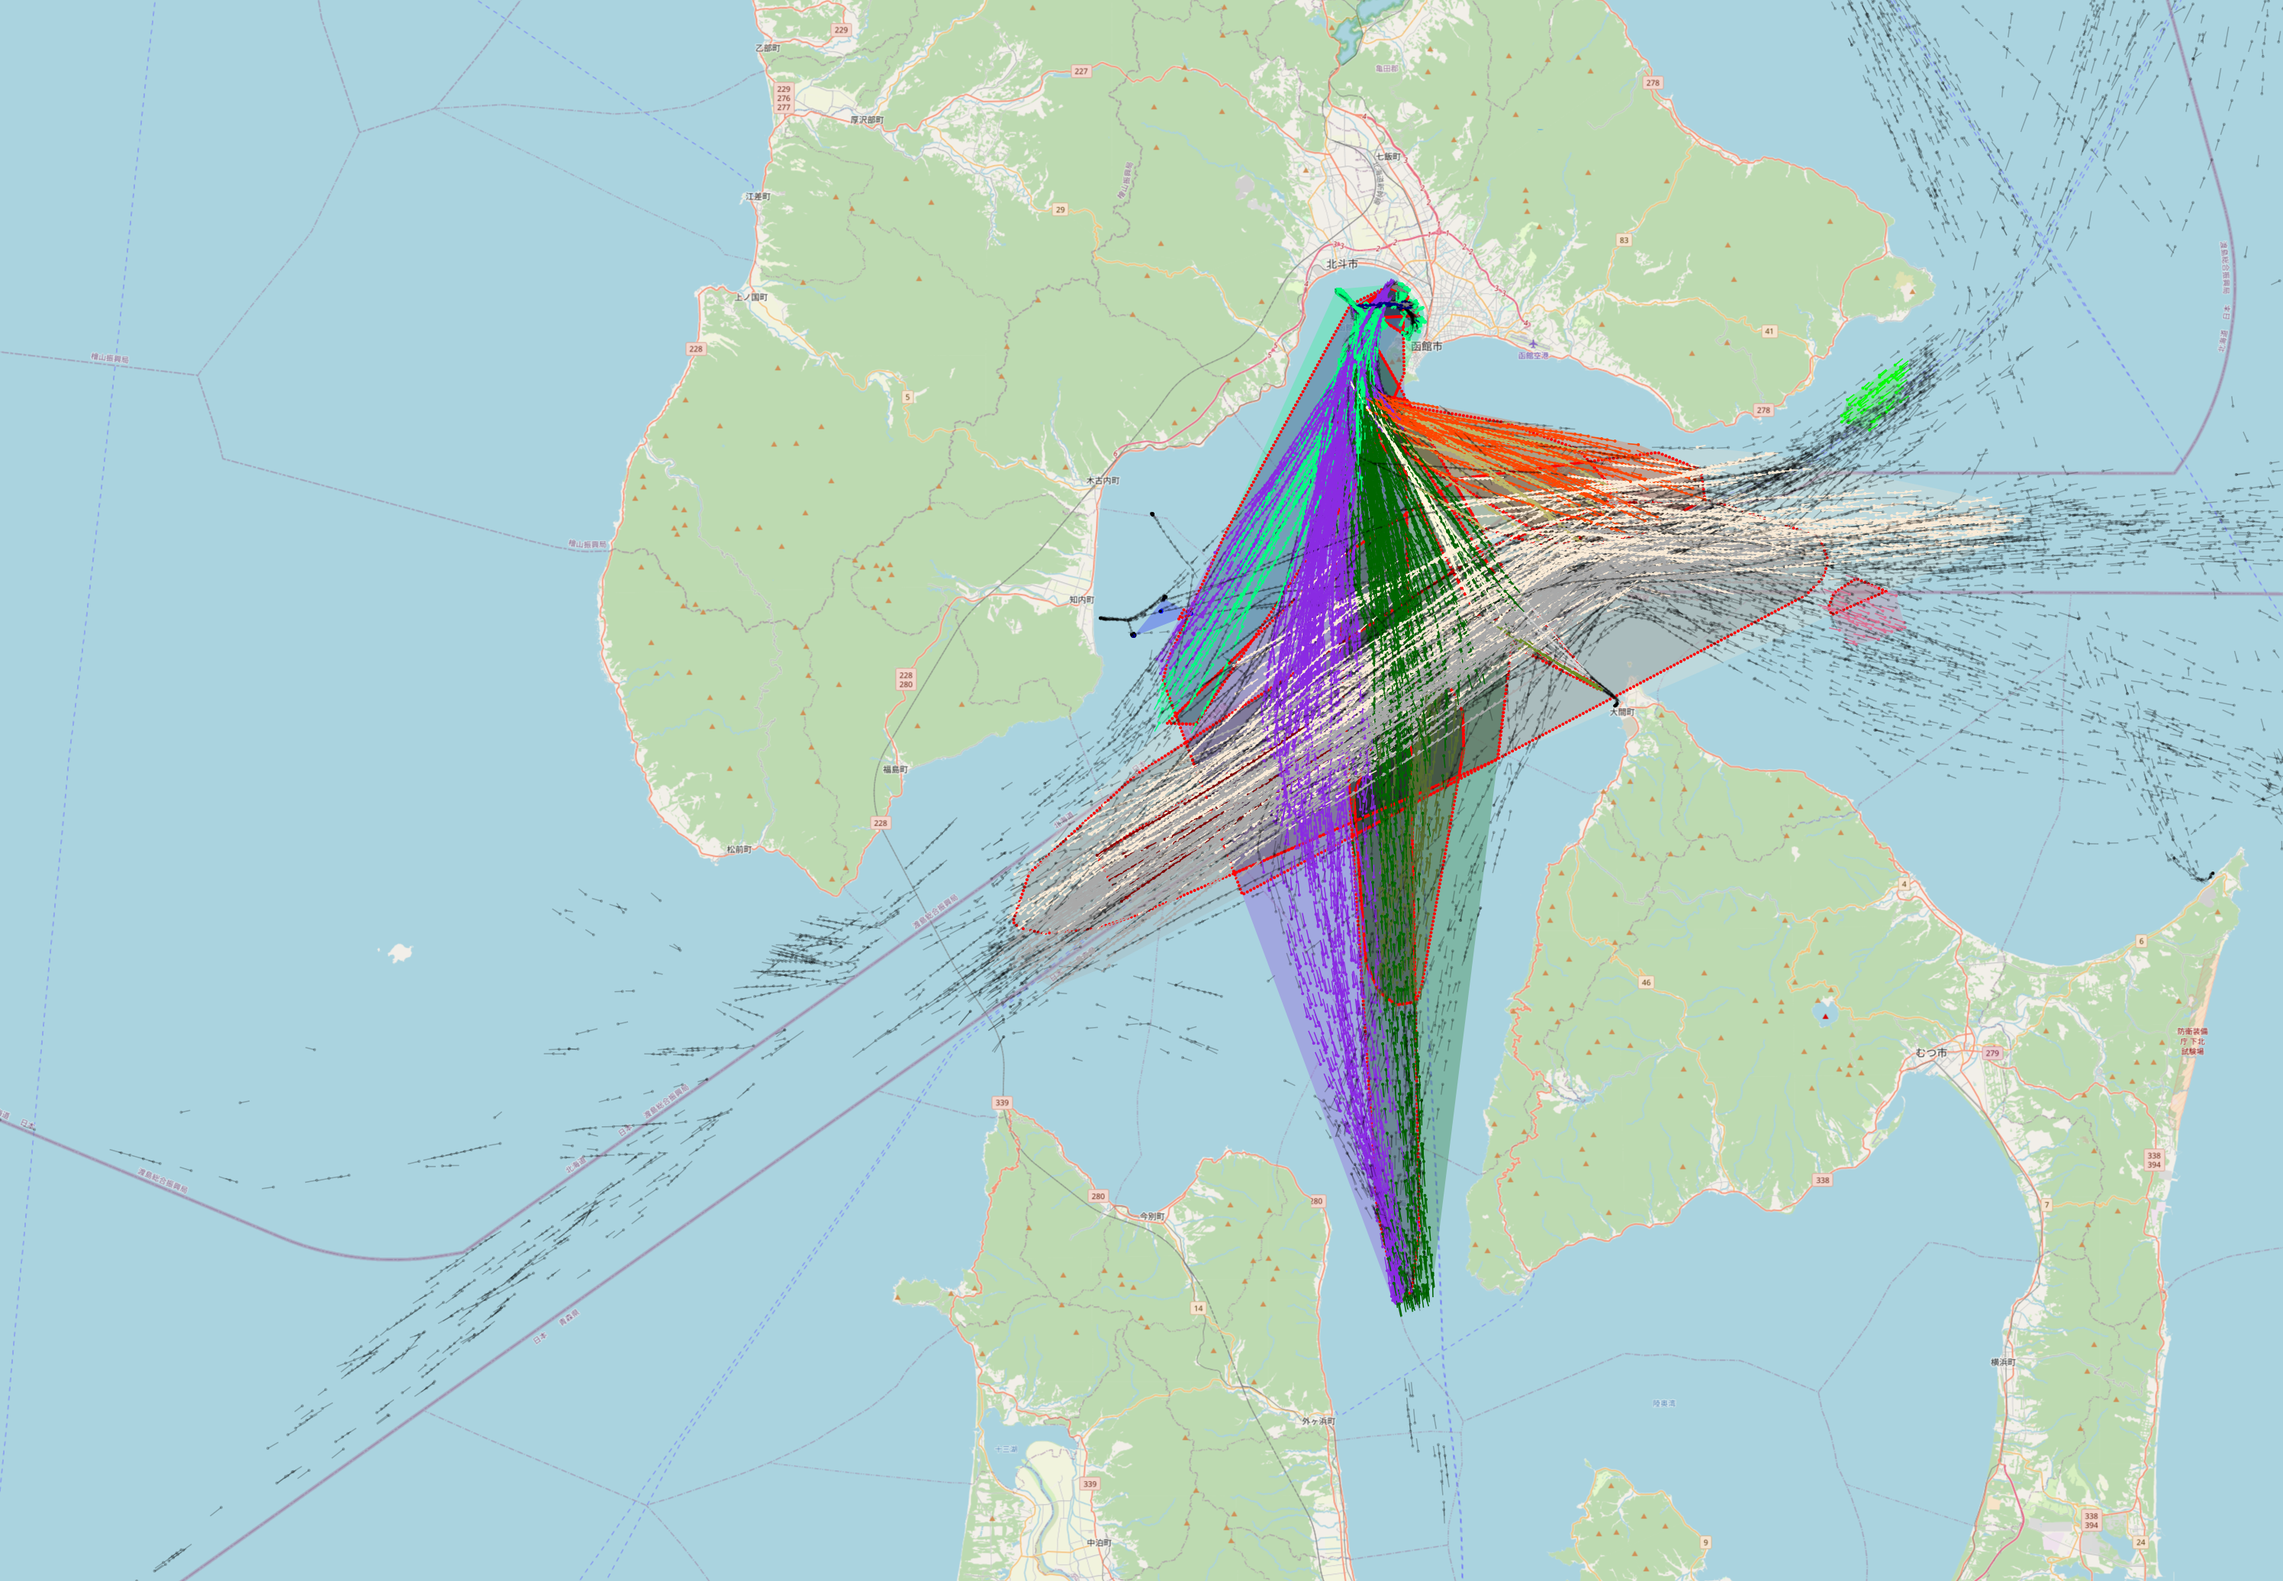
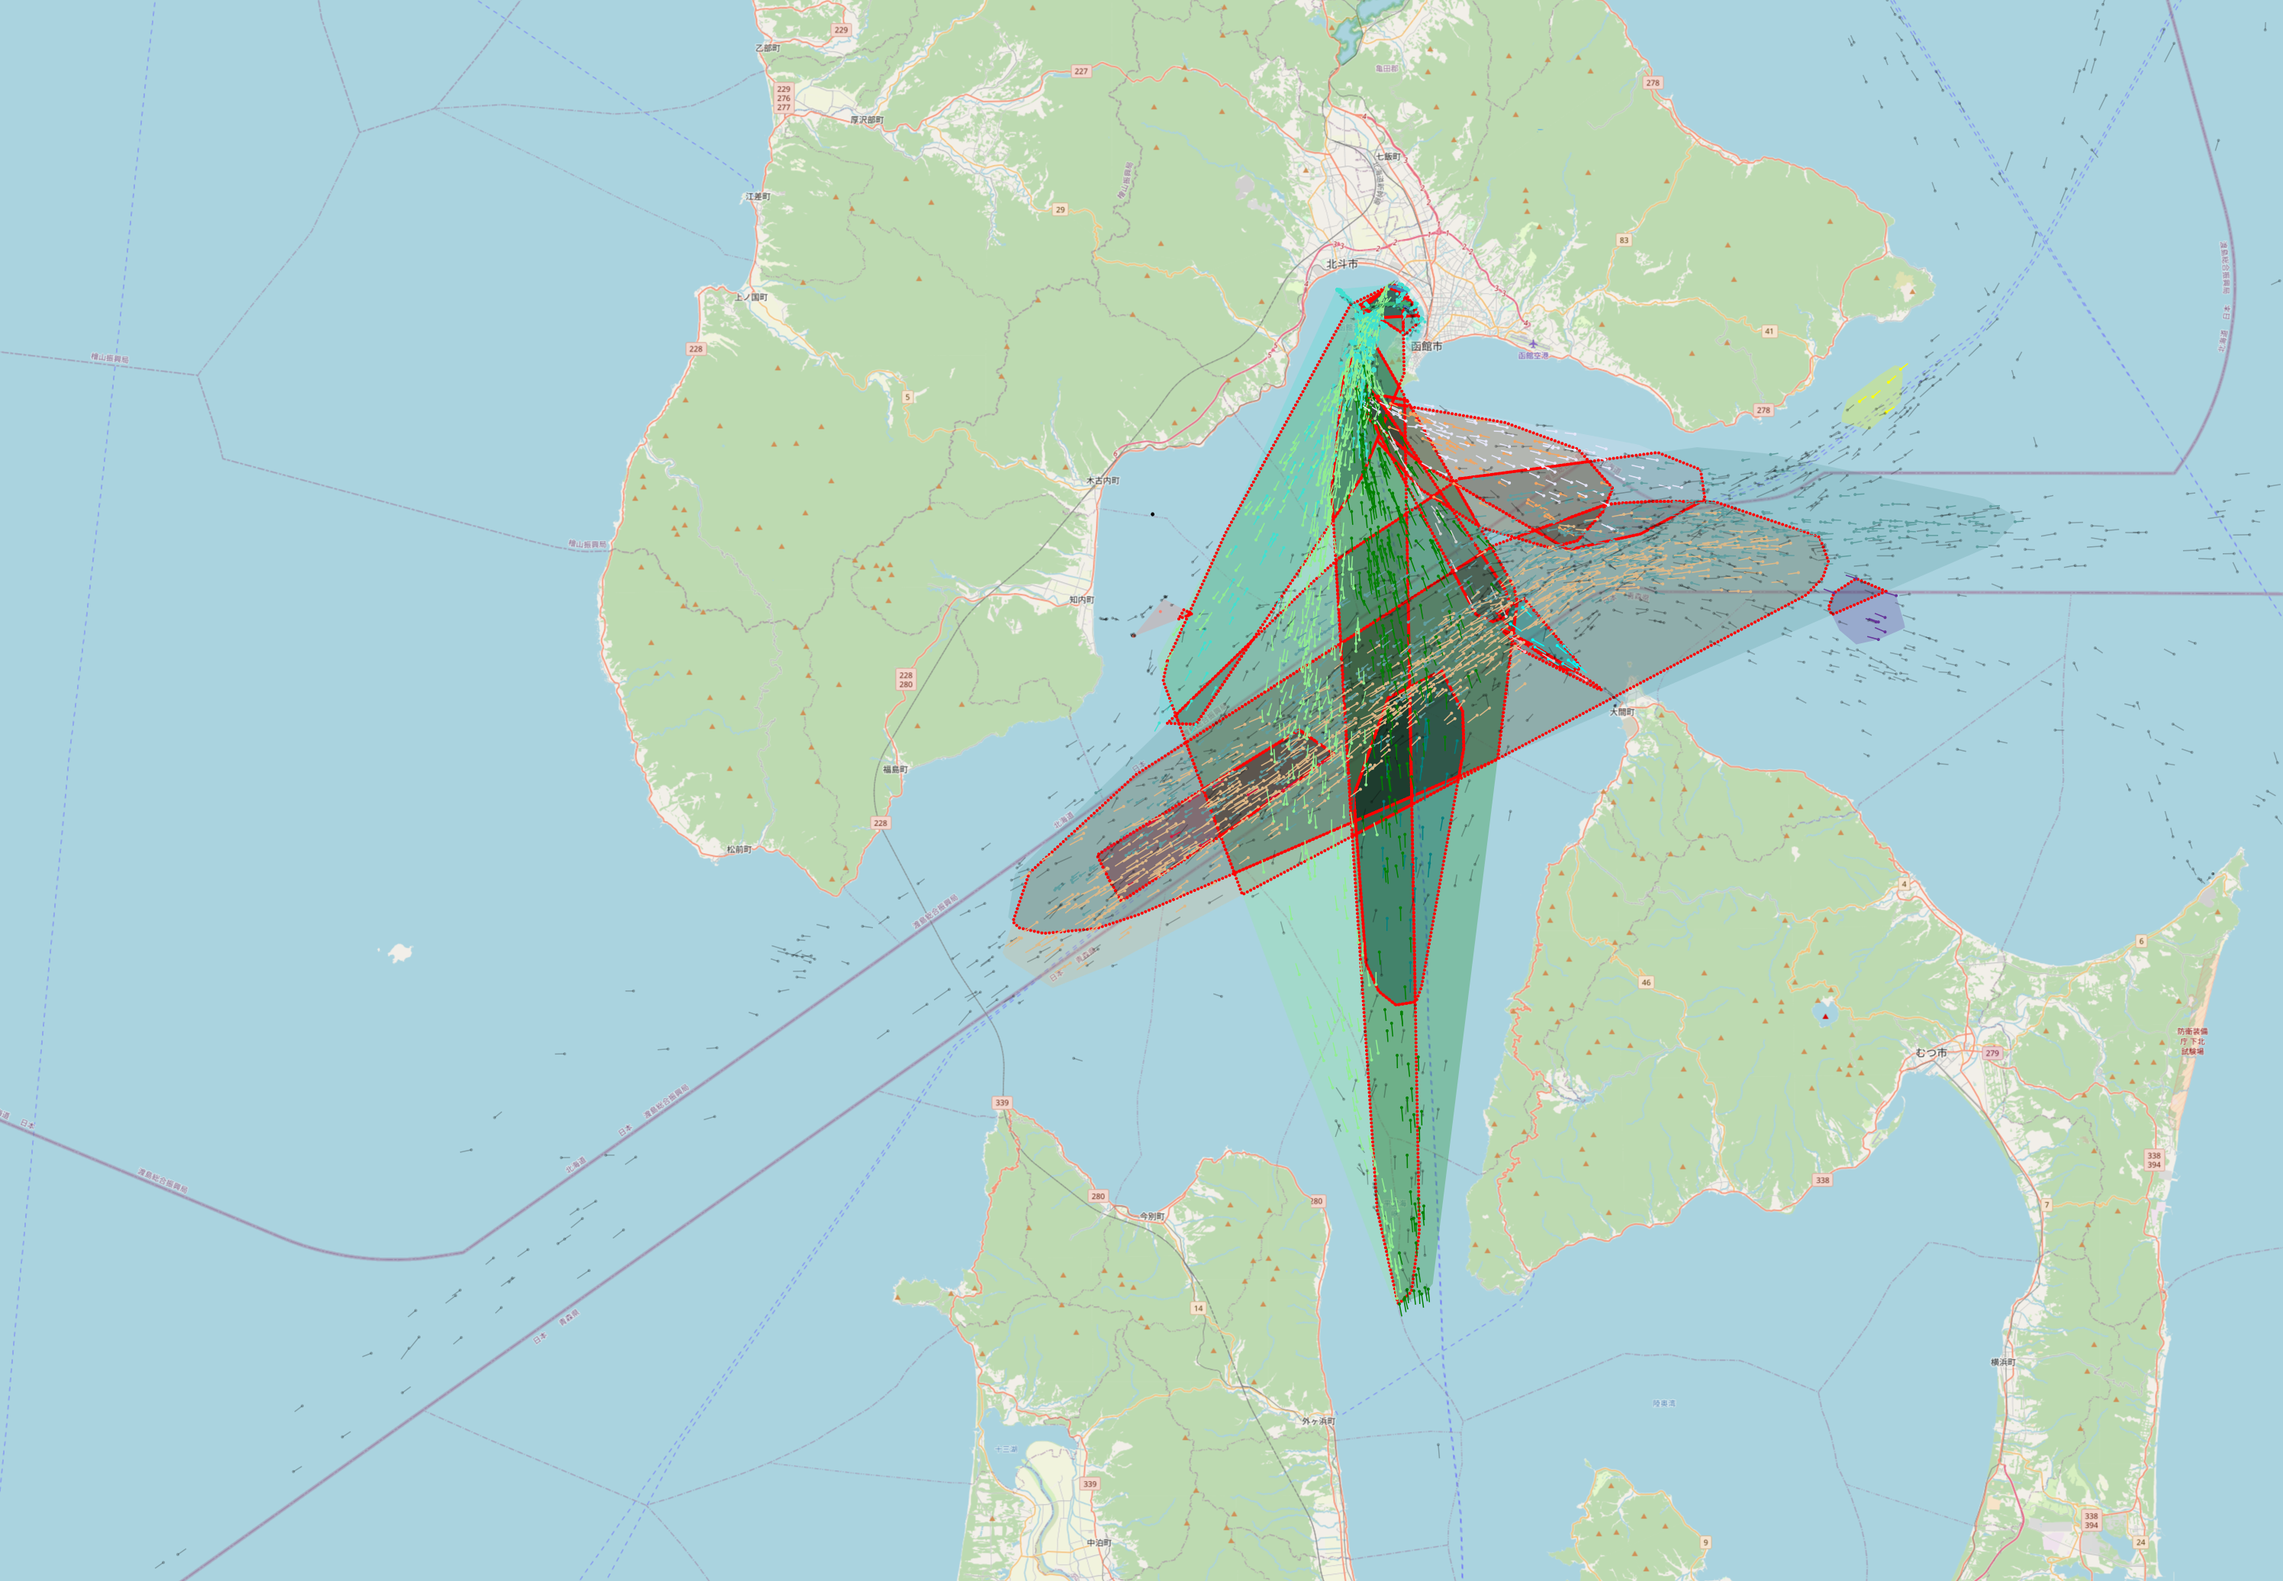
50 -> 147

diff --git a/CODE/Main/main.py b/CODE/Main/main.py
@@ -50,7 +50,7 @@ def main(file_name, eps, min_samples, nrows=None, create_new_empty_map=False, sa
 
     # Удаление шума, спорное решение
     # df = df.loc[(df['cluster'] != -1)].dropna(axis=0).reset_index(drop=True)
-    if max(df['cluster']) + 1 <= 50:
+    if max(df['cluster']) + 1 <= 147:
         map_builder = MapBuilder(west=min_lat, south=min_lon, east=max_lat, north=max_lon, zoom=11, df=df,
                                  file_name=f'{file_name}', create_new_empty_map=create_new_empty_map,
                                  save_count=save_count)
